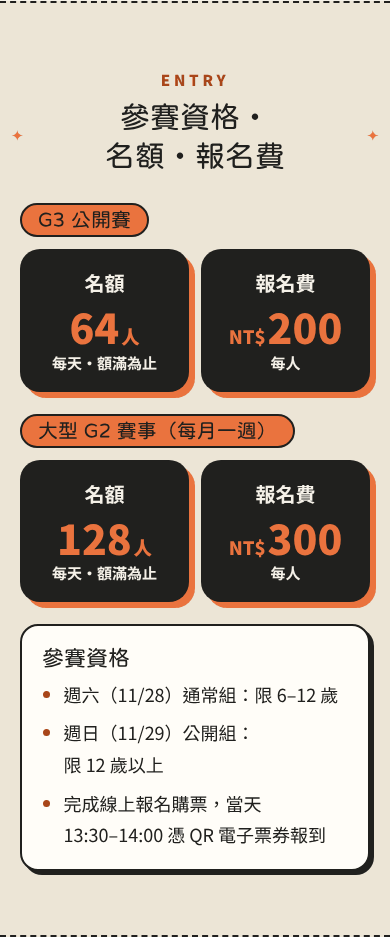
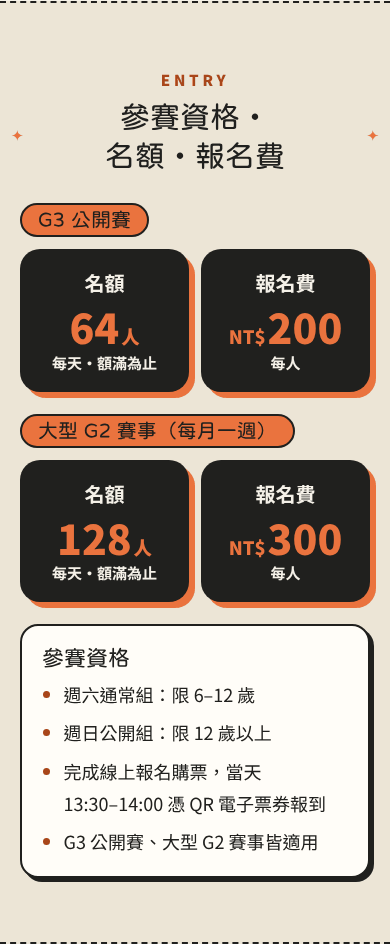
/cup/ 參賽資格清單拿掉首場日期，註明 G3、G2 皆適用
- 週六通常組：限 6–12 歲／週日公開組：限 12 歲以上
- 新增一點「G3 公開賽、大型 G2 賽事皆適用」
- 更新 cup-entry 1440／390 截圖

Claude-Session: https://claude.ai/code/session_012dQHuckgmktwtxDEBvdD1o

diff --git a/cup/index.html b/cup/index.html
@@ -187,9 +187,10 @@
           <article class="rule-card cup-entry-card">
             <h3>參賽資格</h3>
             <ul>
-              <li>週六（11/28）通常組：<span class="nobr">限 6–12 歲</span></li>
-              <li>週日（11/29）公開組：<span class="nobr">限 12 歲以上</span></li>
+              <li>週六通常組：<span class="nobr">限 6–12 歲</span></li>
+              <li>週日公開組：<span class="nobr">限 12 歲以上</span></li>
               <li>完成線上報名購票，當天 <span class="nobr">13:30–14:00</span> 憑 QR 電子票券報到</li>
+              <li>G3 公開賽、大型 G2 賽事皆適用</li>
             </ul>
           </article>
         </div>
